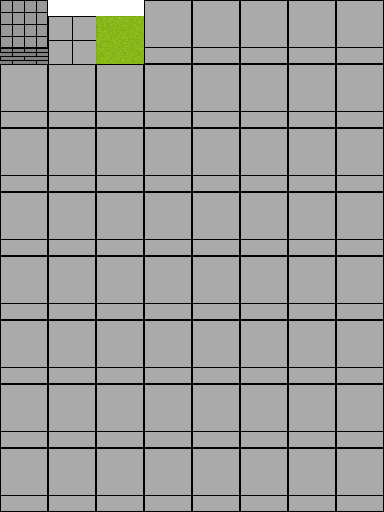
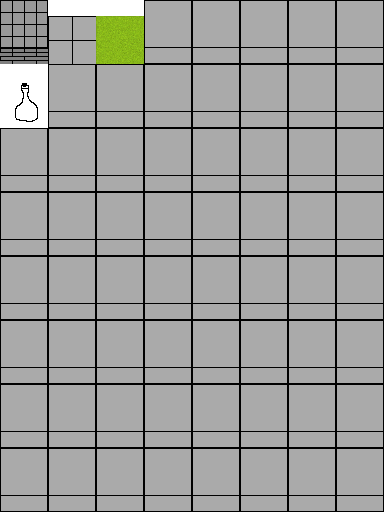
Basic UI DOM structure, prototyping small canvases and drag-and-drop.

Changed region(s): [[0.0, 0.125, 0.125, 0.25]]

diff --git a/src/ui.js b/src/ui.js
@@ -1,25 +1,76 @@
 
-const ui_content = `
-<div id="rogue_menu">
-	The Main Menu
-</div>
-<div id="rogue_game">
-	The Main Game Screen
-</div>
-<div id="rogue_popup" style="visibility: hidden;" >
-	The emergency popup
-</div>
-`;
+import * as resources from "./resources.js"
+
+const ui_elements = {
+	popup: null,
+	menu: null,
+	game: null,
+	view: null,
+	map: null,
+	usables: [],
+	inventory: null,
+	wearables: [],
+};
+
+function make_el(kind, parent, width, height, left, top)
+{
+	const el = document.createElement(kind);
+	el.style.position = "absolute";
+	el.style.width = width;
+	el.style.height = height;
+	el.style.left = left;
+	el.style.top = top;
+	parent.appendChild(el);
+
+	return el;
+}
 
 export function setup()
 {
 	console.log("ui::setup starting");
 
-	const top_div = document.createElement("div");
-	top_div.id = "rogue_ui";
-	top_div.innerHTML = ui_content;
-	const parent = document.getElementById("rogue_top");
-	parent.appendChild(top_div);
+	const root = document.getElementById("rogue_top");
+	ui_elements.popup = make_el("div", root, "50%", "50%", "25%", "25%");
+	ui_elements.menu = make_el("div", root, "100%", "100%", "0%", "0%");
+	ui_elements.game = make_el("div", root, "100%", "100%", "0%", "0%");
+	ui_elements.view = make_el("canvas", ui_elements.game, "66.66667%", "100%", "0%", "0%");
+	ui_elements.map = make_el("canvas", ui_elements.game, "30%", "45%", "68%", "3%");
+	for (var i=0; i<7; i++)
+	{
+		const x = (66.85+i*4.75).toString() + "%";
+		const el = make_el("canvas", ui_elements.game,
+			"4.44444%", "6.66666%", x, "75%");
+		ui_elements.usables.push(el);
+	}
+	for (var i=0; i<7; i++)
+	{
+		const x = (66.85+i*4.75).toString() + "%";
+		const el = make_el("canvas", ui_elements.game,
+			"4.44444%", "6.66666%", x, "83%");
+		ui_elements.usables.push(el);
+	}
+	for (var i=0; i<7; i++)
+	{
+		const x = (66.85+i*4.75).toString() + "%";
+		const el = make_el("canvas", ui_elements.game,
+			"4.44444%", "6.66666%", x, "91%");
+		ui_elements.usables.push(el);
+	}
+
+	ui_elements.inventory = make_el("div", ui_elements.game, "60%", "90%", "3%", "5%");
+	for (var j=0; j<6; j++)
+	for (var i=0; i<10; i++)
+	{
+		const y = (10+9*j).toString() + "%";
+		const x = (5+i*9).toString() + "%";
+		const el = make_el("canvas", ui_elements.inventory,
+			"7.4074%", "7.4074%", x, y);
+		ui_elements.wearables.push(el);
+	}
+
+	ui_elements.popup.style.visibility = "hidden";
+	ui_elements.game.style.visibility = "hidden";
+	ui_elements.menu.style.visibility = "hidden";
 
 	return new Promise(
 		(resolve, reject) =>
@@ -34,6 +85,9 @@ export function hide_splash()
 	console.log("ui::hide_splash");
 	const splash = document.getElementById("rogue_splash");
 	splash.style.visibility = "hidden";
+
+	ui_elements.menu.style.visibility = "visible";
+	ui_elements.game.style.visibility = "visible";
 }
 
 // the callback should have the signature
@@ -47,6 +101,20 @@ export function set_command_callback(fn)
 export function draw(gd)
 {
 	console.log("ui::draw");
+
+	// FIXME fake
+	const tile_img = resources.data.tiles[0];
+	for (var i=0; i<5; i++)
+	{
+		const canvas = ui_elements.usables[i];
+		canvas.width = 48;
+		canvas.height = 48;
+		const ctx = canvas.getContext("2d");
+		const srcx = 0;
+		const srcy = 80;
+		ctx.drawImage(tile_img, srcx, srcy, 48, 48, 0, 0, 48, 48);
+		canvas.setAttribute("draggable", "true");
+	}
 }
 
 // FIXME maybe a function to trigger sounds?
@@ -54,7 +122,7 @@ export function draw(gd)
 export function error_popup(err)
 {
 	console.log("ui::error_popup -- "+err);
-	const popup = document.getElementById("rogue_popup");
+	const popup = ui_elements.popup;
 
 	popup.replaceChildren();
 

diff --git a/src/rogue_style.css b/src/rogue_style.css
@@ -4,6 +4,7 @@
 	position: absolute;
 	width: 100%;
 	height: 100%;
+	overflow: hidden;
 }
 
 #rogue_splash
@@ -13,13 +14,9 @@
 	height: 100%;
 }
 
-#rogue_popup
+#rogue_top div
 {
-	position: absolute;
-	width: 50%;
-	height: 50%;
-	left: 25%;
-	top: 25%;
-	background-color: #808080;
+	background-color: #C0A080;
+	box-shadow: 10px 10px 10px black;
 }
 

diff --git a/examples/style.css b/examples/style.css
@@ -10,6 +10,13 @@ div
 	margin: 0;
 }
 
+canvas
+{
+	outline: 1px solid blue;
+	padding: 0;
+	margin: 0;
+}
+
 .fullscreen
 {
 	position: fixed;

diff --git a/src/game.js b/src/game.js
@@ -1,4 +1,6 @@
 
+import * as ui from "./ui.js"
+
 export function setup()
 {
 	console.log("game::setup starting");
@@ -14,5 +16,7 @@ export function setup()
 export function start()
 {
 	console.log("game::start starting");
+	const game = null;
+	ui.draw(game);
 }
 

diff --git a/src/resources.js b/src/resources.js
@@ -5,8 +5,8 @@ export var data = {
 
 const tile_files = [
 	"../data/tile00.png",
-	//"../data/tile01.png",
-	//"../data/tile02.png",
+	// "../data/tile01.png",
+	// "../data/tile02.png",
 ];
 
 var errors = [];